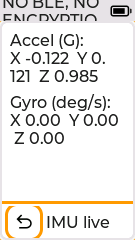
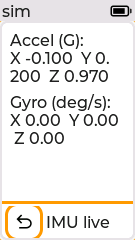
fix(imu): test the hardware display rotation path

Changed region(s): [[0.0593, 0.2042, 0.8, 0.35], [0.0, 0.0, 0.7407, 0.0875]]

diff --git a/src/FurbleUI.cpp b/src/FurbleUI.cpp
@@ -3685,6 +3685,29 @@ std::string UI::simQueryState(const char *key) {
   if (query == "level_side_x") {
     return std::to_string(m_Level.sideBubbleX);
   }
+  if (query == "level_root_width") {
+    return m_Level.root != nullptr ? std::to_string(lv_obj_get_width(m_Level.root)) : "none";
+  }
+  if (query == "level_root_height") {
+    return m_Level.root != nullptr ? std::to_string(lv_obj_get_height(m_Level.root)) : "none";
+  }
+  if (query == "level_side_on_screen") {
+    if (m_Level.sideBubble == nullptr || lv_obj_has_flag(m_Level.sideTube, LV_OBJ_FLAG_HIDDEN)) {
+      return "no";
+    }
+    lv_area_t bubbleArea;
+    lv_obj_get_coords(m_Level.sideBubble, &bubbleArea);
+    lv_display_t *display = lv_display_get_default();
+    if (display == nullptr) {
+      return "no";
+    }
+    const int32_t width = lv_display_get_horizontal_resolution(display);
+    const int32_t height = lv_display_get_vertical_resolution(display);
+    return (bubbleArea.x1 >= 0 && bubbleArea.y1 >= 0 && bubbleArea.x2 < width
+            && bubbleArea.y2 < height)
+               ? "yes"
+               : "no";
+  }
   if (query == "level_has_side") {
     return m_Level.sideTube != nullptr ? "yes" : "no";
   }
@@ -4616,6 +4639,8 @@ void UI::addLevelMenu(const menu_t &parent) {
   // entry reads at a glance and is no longer the only iconless Connected item.
   menu_t &menu = addMenu(m_LevelStr, &icon_adjust, true, parent);
 
+  m_Level.root = m_Root;
+
   lv_obj_t *cont = lv_menu_cont_create(menu.page);
   lv_obj_set_size(cont, LV_PCT(100), LV_PCT(100));
   lv_obj_set_layout(cont, LV_LAYOUT_FLEX);
@@ -4790,19 +4815,6 @@ void UI::applyLevelRotation(level_t *level, int32_t rotation) {
   // panel rotation and the forced full repaint only run when the orientation
   // actually changes.
   const bool orientationChanged = (rotation != level->rotation);
-#if defined(FURBLE_SIM)
-  // SDL has no DMA controller, so LVGL software rotation is safe here and lets a
-  // scenario verify the orientation state machine and the relayout.
-  if (display != nullptr && orientationChanged) {
-    lv_display_rotation_t target = LV_DISPLAY_ROTATION_0;
-    if (rotation == 90) {
-      target = LV_DISPLAY_ROTATION_90;
-    } else if (rotation == 270) {
-      target = LV_DISPLAY_ROTATION_270;
-    }
-    lv_display_set_rotation(display, target);
-  }
-#else
   // On the real StickS3 the LVGL software rotation path corrupts the screen: it
   // rotates pixels in the draw buffer but does not coordinate with the panel DMA
   // flush, so a rotated frame tears against the old stride and only recovers when
@@ -4819,8 +4831,12 @@ void UI::applyLevelRotation(level_t *level, int32_t rotation) {
   // pre-rotation pixels. The periodic bubble updates that follow only invalidate
   // small regions, so the right half never recovered.
   //
-  // PENDING HARDWARE RETEST: the rotated flush cannot be exercised in the SDL
-  // simulator, only on device.
+  // The SDL M5GFX framebuffer implements the same panel-rotation API. Keep the
+  // simulator on this path too: LVGL software rotation previously let its
+  // logical width grow to 240 while the simulated panel remained 135 pixels
+  // wide. Captures silently cropped the far half, including the moving bubble.
+  // Matching the firmware path makes panel geometry and complete rotated-frame
+  // capture testable on the host. Physical DMA still needs an on-device check.
   if (display != nullptr && orientationChanged) {
     // Captured once at build time while the panel is in its portrait default.
     static const uint8_t baseRotation = M5.Display.getRotation();
@@ -4834,13 +4850,20 @@ void UI::applyLevelRotation(level_t *level, int32_t rotation) {
       lv_display_set_resolution(display, level->baseHeight, level->baseWidth);
     }
   }
-#endif
 
   // Landscape swaps the panel width and height. The value labels stay on both
   // orientations, the circle is the flat readout, the tube is the side readout.
   const bool landscape = (rotation != 0);
   const int32_t effWidth = landscape ? level->baseHeight : level->baseWidth;
   const int32_t effHeight = landscape ? level->baseWidth : level->baseHeight;
+
+  // lv_win_create snapshots its parent's pixel dimensions instead of using
+  // percentages. Resize the root window whenever the level changes the display
+  // resolution. Without this, the panel becomes 240x135 but every page remains
+  // 135 pixels wide, clipping the landscape tube and its moving bubble.
+  if (level->root != nullptr) {
+    lv_obj_set_size(level->root, effWidth, effHeight);
+  }
 
   if (landscape) {
     lv_obj_add_flag(level->surface, LV_OBJ_FLAG_HIDDEN);
@@ -4892,7 +4915,6 @@ void UI::applyLevelRotation(level_t *level, int32_t rotation) {
     lv_obj_update_layout(cont);
   }
 
-#if !defined(FURBLE_SIM)
   // The panel, the LVGL resolution, every widget and the button overlay now all
   // describe the new orientation. Force one synchronous full repaint so the
   // entire rotated width is written in a single pass, then drain the DMA so the
@@ -4902,7 +4924,6 @@ void UI::applyLevelRotation(level_t *level, int32_t rotation) {
     lv_refr_now(display);
     M5.Display.waitDMA();
   }
-#endif
 }
 
 void UI::applyLevelSample(level_t *level, const float accel[3]) {

diff --git a/include/FurbleUI.h b/include/FurbleUI.h
@@ -262,6 +262,10 @@ class UI {
   } diagnostics_t;
 
   typedef struct {
+    // The top-level window is pixel-sized by lv_win_create. It does not follow
+    // later display resolution changes automatically, so level rotation must
+    // resize it with the panel or the landscape page remains portrait-width.
+    lv_obj_t *root;
     lv_obj_t *surface;
     lv_obj_t *bubble;
     // Fixed reference ring at the exact centre of the circle. The moving bubble

diff --git a/plans/16-imu-spirit-level.md b/plans/16-imu-spirit-level.md
@@ -438,15 +438,22 @@ and that returning to portrait leaves the rest of the UI upright.
 
 New `simQueryState` keys: `level_rotation` reports the active page rotation in
 degrees, and `level_side_visible` reports whether the side tube is currently
-shown. `level_has_side` still reports whether the tube widget exists.
+shown. `level_root_width`, `level_root_height`, and `level_side_on_screen`
+prove the rotated display resolution reaches the pixel-sized top-level window
+and the complete moving bubble stays inside the framebuffer. This caught a
+real defect where the simulated panel became 240 pixels wide while the root
+window stayed at its original 135 pixels. `level_has_side` still reports
+whether the tube widget exists.
 
 - `sim/scenarios/e2e/level-spirit.txt` was rewritten for v3. It asserts the flat
   page opens in portrait with the tube hidden, a 6 degree roll drives the circle
-  bubble 19 px while staying portrait, a 70 degree right roll flips to rotation
+  bubble 18 px while staying portrait, a 70 degree right roll flips to rotation
   90 and shows the tube pinned near the rim, a 70 degree left roll flips to
   rotation 270, and returning near flat restores portrait and hides the tube.
   Overflow stays no in both orientations. Reverting the sensitivity mapping to
-  the old linear curve fails the 19 px assert.
+  the old linear curve fails the 18 px assert. The landscape checks also fail
+  if the root window retains portrait geometry or either extreme bubble
+  position is clipped.
 - `sim/scenarios/bughunt/overflow-sweep.txt` still asserts the flat level page
   fits. Verified no overflow on 80x160, 135x240 and 320x240, and a landscape
   probe confirmed the flipped page also fits on all three.

diff --git a/sim/CLAUDE.md b/sim/CLAUDE.md
@@ -271,6 +271,11 @@ a regression.
   disabled setting and hides both optional pages. The spirit level filter,
   sensitivity curve and auto-rotate all run on the injected sample.
   `imu_accel_x/y/z` read the rendered Diagnostics > IMU live label back.
+  `level_root_width/height` expose the pixel-sized top-level window after panel
+  rotation, and `level_side_on_screen` verifies the complete moving bubble lies
+  inside the active display. Keep these guards with the numeric bubble-offset
+  checks: an offset can be correct while a stale portrait-width root clips the
+  widget from the landscape framebuffer.
 - Redraw-storm probe: the `invalidate.reset` action zeroes a counter fed by the
   LVGL `LV_EVENT_INVALIDATE_AREA` hook (`profilerInvalidationProbeCount` in
   `sim/power_profiler.cpp`), and `ui.invalidate_count` reports events since the

diff --git a/docs/sim.md b/docs/sim.md
@@ -386,7 +386,10 @@ layout. Use these deterministic controls in scenarios:
 
 The `imu.*` actions feed the shared simulated `M5.Imu` surface. Queries include
 `imu_accel_x`, `imu_accel_y`, `imu_accel_z`, `level_bubble_x`,
-`level_bubble_y`, `level_rotation`, `level_side_visible`, and `ui.overflow`.
+`level_bubble_y`, `level_rotation`, `level_side_visible`, `level_root_width`,
+`level_root_height`, `level_side_on_screen`, and `ui.overflow`. The root-size
+and on-screen queries verify that a landscape panel resize reaches the
+pixel-sized top-level window and that the moving tube bubble is not clipped.
 Checked-in scenarios cover the setting gate, live diagnostics, portrait and
 rotated level layouts, redraw stability, and overflow on all three panel sizes:
 `e2e/imu-gating.txt`, `e2e/imu-diagnostics.txt`, `e2e/level-spirit.txt`,
